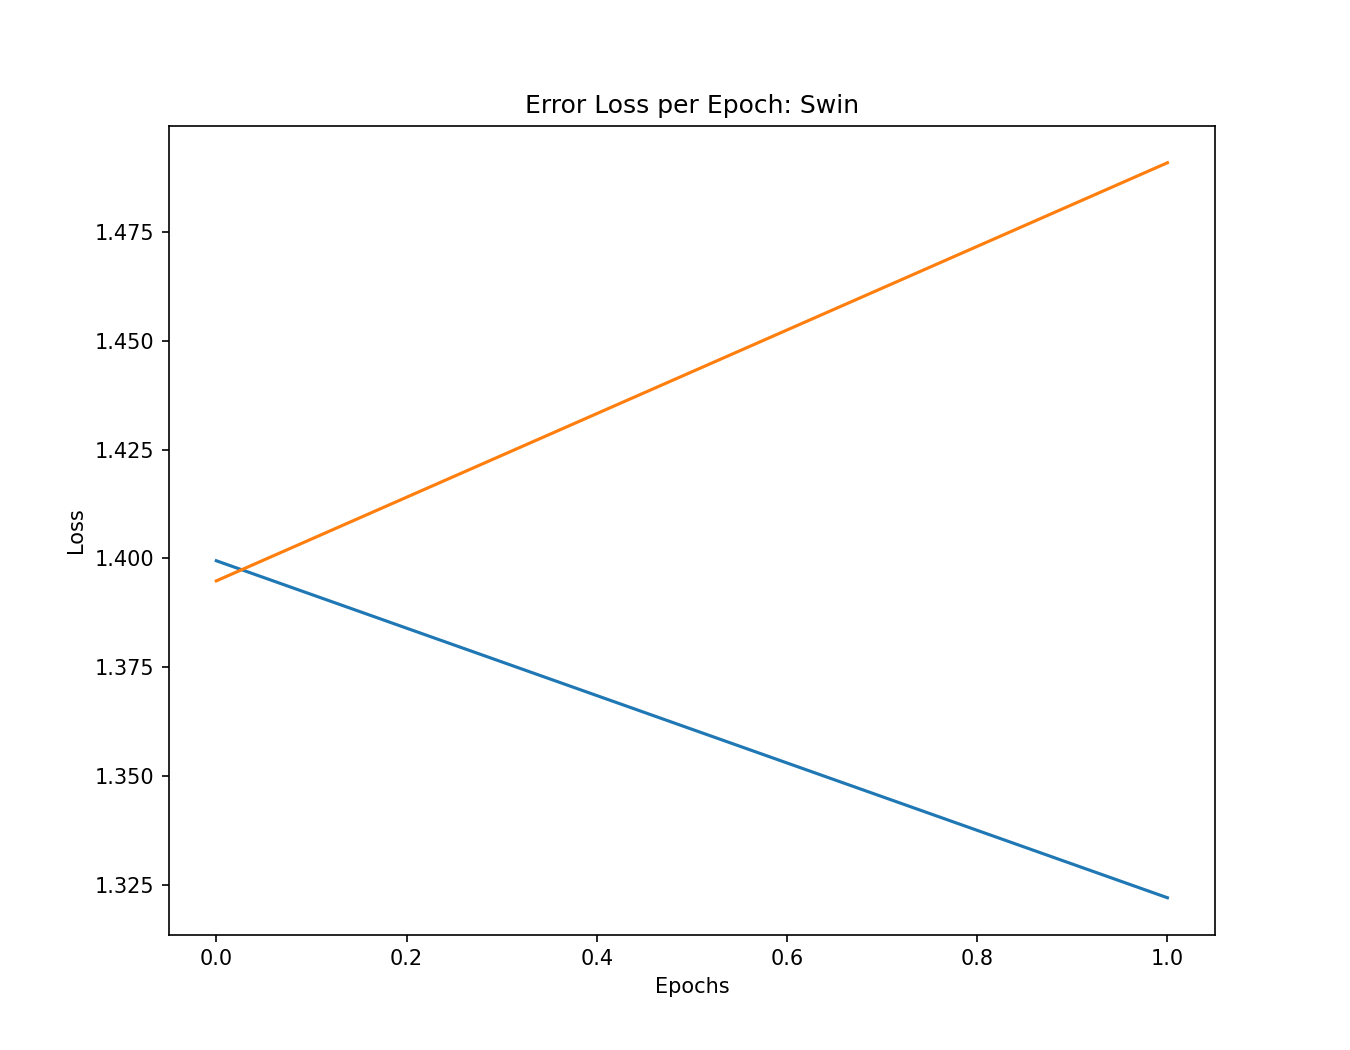
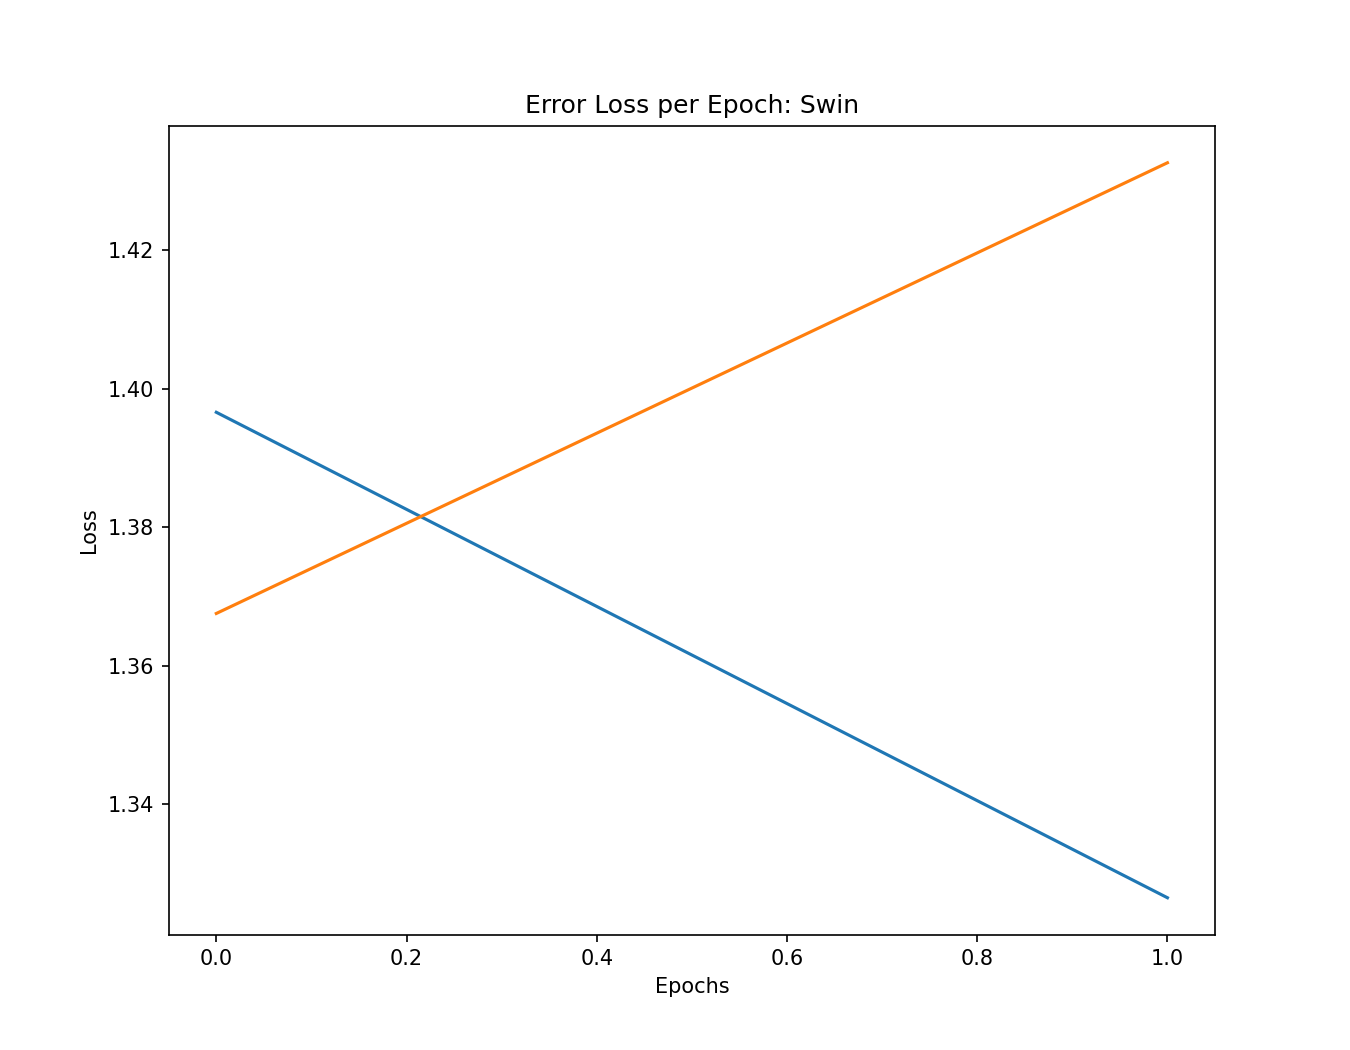
working on case machine

diff --git a/src/train.py b/src/train.py
@@ -11,7 +11,6 @@ def load_model(model_name, num_classes, from_path=None):
             'weight_decay': 0.0001
         }
         num_epochs = 2
-        n_splits = 2
         batch_size = 32
     elif model_name=="ConvNeXt":
         model = load_convnext_model(num_classes, from_path)
@@ -23,7 +22,6 @@ def load_model(model_name, num_classes, from_path=None):
             'weight_decay': 0.0001
         }
         num_epochs = 2
-        n_splits = 2
         batch_size = 32
     elif model_name=="ViT":
         model = load_vit_model(num_classes, from_path)
@@ -35,24 +33,22 @@ def load_model(model_name, num_classes, from_path=None):
             'weight_decay': 0.0001
         }
         num_epochs = 2
-        n_splits = 2
         batch_size = 8
     elif model_name=="Swin":
         model = load_swin_model(num_classes, from_path)
-        model = freeze_layers(model, 1)
+        model = freeze_layers(model, 5)
         hyperparameters = {
             'learning_rate': 0.001,
             'beta1': 0.9,
             'beta2': 0.999,
             'weight_decay': 0.0001
         }
-        num_epochs = 5
-        n_splits = 2
+        num_epochs = 2
         batch_size = 64
     else:
         raise Exception("Invalid model name.")
 
-    return model, hyperparameters, num_epochs, n_splits, batch_size
+    return model, hyperparameters, num_epochs, batch_size
 
 def load_resnet50_model(num_classes, saved_weights_path=None):
     # Load the pretrained model
@@ -150,7 +146,7 @@ def get_loss_optimizer(model, hyperparameters, class_counts, device):
 
 
 def train_model(model, criterion, optimizer, train_loader, val_loader, test_loader, \
-                    unique_labels, device, num_epochs, model_name, save_weights=None, \
+                    unique_labels, device, num_epochs, batch_size, n_augment, model_name, save_weights=None, \
                     save_fig=None, evaluate=True):
     
     # log training process
@@ -160,6 +156,8 @@ def train_model(model, criterion, optimizer, train_loader, val_loader, test_load
         config={
             "learning_rate": optimizer.param_groups[-1]['lr'],
             "epochs": num_epochs,
+            "batch_size:": batch_size,
+            "n_augment": n_augment
         }
     )
     
@@ -393,6 +391,8 @@ def train_model_cv(model, criterion, optimizer, train_dataset, train_loader, tes
     if evaluate==True:
         metrics = evaluate_model(model, test_loader, device, unique_labels, model_name, save_fig)
         wandb.log(metrics)
+        
+
     else:
         metrics = {}
 
@@ -449,5 +449,11 @@ def evaluate_model(model, test_loader, device, unique_labels, model_name, save_f
     else:
         conf_mat = pd.DataFrame(confusion_matrix(all_labels,all_preds), index=unique_labels, columns=unique_labels)
         print('\nConfusion Matrix:\n',conf_mat,'\n',sep='')
+    
+    if wandb.run is not None:
+        wandb.log({"conf_mat" : wandb.plot.confusion_matrix(probs=None,
+                        y_true=all_labels, preds=all_preds,
+                        class_names=unique_labels)})
+
 
     return metrics

diff --git a/src/hyperparameter_tuning.py b/src/hyperparameter_tuning.py
@@ -36,14 +36,6 @@ def hyperparameter_tuning(model_name, verbose, device, num_trials):
         print(f"Batch Size: {batch_size}")
         print(f"n_augment: {n_augment}\n")
 
-        train_loader, test_loader, train_dataset, _ = preprocess_dataset(df, dataset_path, n_augment, batch_size)
-    
-        unique_labels = df.columns.values[3:]
-        num_classes = len(unique_labels)
-    
-        # load model
-        model, _, _, _, _ = load_model_single(model_name, num_classes)
-
         hyperparameters = {
             'learning_rate': learning_rate,
             'beta1': beta1,
@@ -51,12 +43,26 @@ def hyperparameter_tuning(model_name, verbose, device, num_trials):
             'weight_decay': weight_decay
         }
 
-        criterion, optimizer = get_loss_optimizer(model, hyperparameters)
+        num_classes = 4
+
+        model, hyperparameters, num_epochs, batch_size = load_model(model_name, num_classes)
+
+        train_loader, val_loader, test_loader, train_dataset, val_dataset, test_dataset, class_counts = preprocess_dataset(df, dataset_path, n_augment, batch_size)
+    
+        unique_labels = df.columns.values[3:]
+
+        # load model
+
+        criterion, optimizer = get_loss_optimizer(model, hyperparameters, class_counts, device)
 
         save_fig_path = '/data/md311/Breast_Cancer_Detection_DBT/fig/test_{date:%d-%m-%Y_%H:%M:%S}_'.format(date=datetime.datetime.now())
         
-        metrics = train_model_cv(model, criterion, optimizer, train_dataset, train_loader, test_loader, unique_labels, \
-                    device, num_epochs, batch_size, n_splits, n_augment, model_name, save_weights=None, save_fig=save_fig_path, evaluate=True)
+        # metrics = train_model_cv(model, criterion, optimizer, train_dataset, train_loader, test_loader, unique_labels, \
+        #             device, num_epochs, batch_size, n_splits, n_augment, model_name, save_weights=None, save_fig=save_fig_path, evaluate=True)
+
+        metrics = train_model(model, criterion, optimizer, train_loader, val_loader, test_loader, \
+                    unique_labels, device, num_epochs, batch_size, n_augment, model_name, save_weights=None, \
+                    save_fig=save_fig_path, evaluate=True)
 
         hyperparameters.update(metrics)
 

diff --git a/data/__init__.py b/data/__init__.py
@@ -6,6 +6,12 @@ def read_dataset(dataset_path):
     df.drop(df.tail(16500).index, axis=0, inplace=True)
     return df
 
+def mean_std(loader):
+    images, labels = next(iter(loader))
+    # shape of images = [b,c,w,h]
+    mean, std = images.mean([0,2,3]), images.std([0,2,3])
+    return mean, std
+
 def preprocess_dataset(df, dataset_path, n_augment, batch_size):
 
     # Define transformations
@@ -15,17 +21,21 @@ def preprocess_dataset(df, dataset_path, n_augment, batch_size):
         # transforms.Grayscale(num_output_channels=1),  # Convert images to grayscale
         transforms.ToTensor(),  # Convert PIL image to PyTorch tensor
         # transforms.Normalize(mean=[0.485, 0.456, 0.406], std=[0.229, 0.224, 0.225])  # Normalize to ImageNet mean and std
+        transforms.Normalize(mean=[0.3283, 0.3283, 0.3283], std=[0.4667, 0.4667, 0.4667])  # Normalize to dataset mean and std
+
     ])
 
     # Define the list of possible augmentations
     augmentations_list = [
         transforms.RandomRotation(10),
-        # transforms.RandomResizedCrop(224, scale=(0.8, 1.0), antialias=True),
-        transforms.RandomResizedCrop(518, scale=(0.8, 1.0), antialias=True),
+        # transforms.RandomResizedCrop(518, scale=(0.8, 1.0), antialias=True),
         transforms.ColorJitter(brightness=0.2, contrast=0.2),
+        transforms.GaussianBlur(3, sigma=(0.1, 2.0))
+
+        # NO
+        # transforms.RandomResizedCrop(224, scale=(0.8, 1.0), antialias=True),
         # transforms.RandomHorizontalFlip(),
         # transforms.RandomVerticalFlip(),
-        transforms.GaussianBlur(3, sigma=(0.1, 2.0))
     ]
 
     # Split the data into train, validation and test sets
@@ -36,6 +46,9 @@ def preprocess_dataset(df, dataset_path, n_augment, batch_size):
 
     # Create data loaders for training, validation and testing
     train_loader, val_loader, test_loader = create_data_loaders(train_dataset, val_dataset, test_dataset, batch_size)
+
+    mean, std = mean_std(train_loader)
+    print("mean and std: \n", mean, std)
 
     # Print the class distribution before and after augmentation
     print_class_distribution(train_data, n_augment)

diff --git a/src/main.py b/src/main.py
@@ -1,6 +1,5 @@
 from utils import *
-
-    
+ 
 def fine_tuning(model_name, verbose, device):
     # Read dataset
     dataset_path ='/data/md311/Breast_Cancer_Detection_DBT/data/' 
@@ -9,7 +8,7 @@ def fine_tuning(model_name, verbose, device):
     n_augment = 2
     num_classes = 4
 
-    model, hyperparameters, num_epochs, n_splits, batch_size = load_model(model_name, num_classes)
+    model, hyperparameters, num_epochs, batch_size = load_model(model_name, num_classes)
 
     train_loader, val_loader, test_loader, train_dataset, val_dataset, test_dataset, class_counts = preprocess_dataset(df, dataset_path, n_augment, batch_size)
     
@@ -38,7 +37,7 @@ def fine_tuning(model_name, verbose, device):
                 #     save_fig_path, evaluate=True) 
     
     train_model(model, criterion, optimizer, train_loader, val_loader, test_loader, \
-                    unique_labels, device, num_epochs, model_name, save_weights=save_weights_path, \
+                    unique_labels, device, num_epochs, batch_size, n_augment, model_name, save_weights=save_weights_path, \
                     save_fig=save_fig_path, evaluate=True)
     
 def main():

diff --git a/src/evaluate.py b/src/evaluate.py
@@ -13,7 +13,7 @@ def main():
     num_classes = 4
     batch_size = 128
 
-    model, hyperparameters, num_epochs, n_splits, batch_size = load_model(model_name, num_classes)
+    model, hyperparameters, num_epochs, batch_size = load_model(model_name, num_classes)
     model.to(device)
     
     
